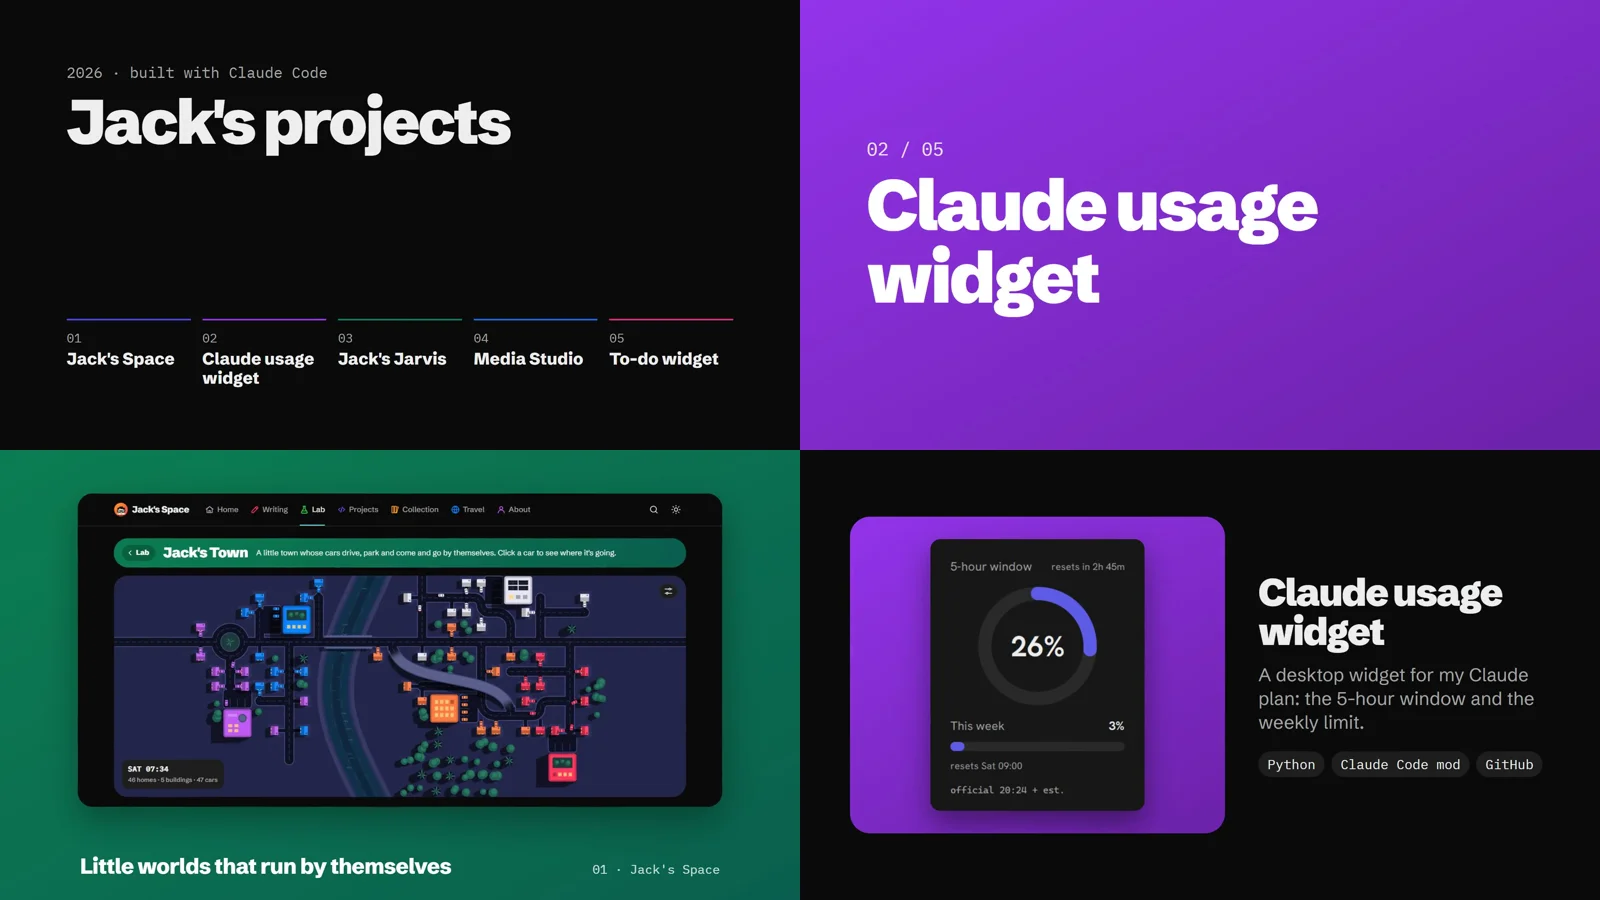
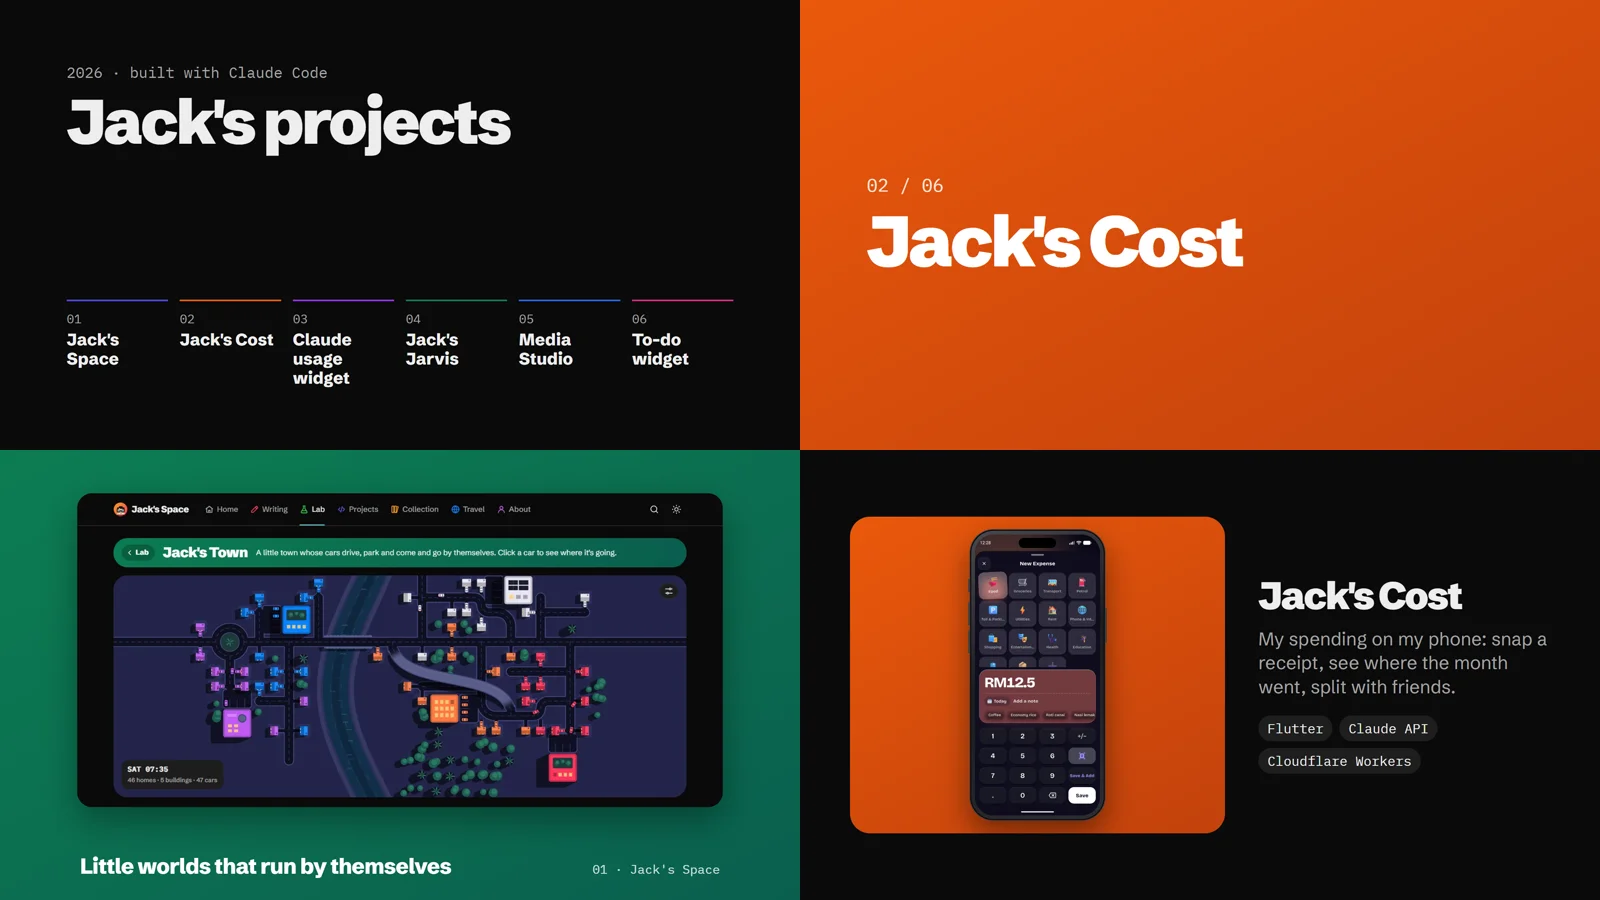
Projects - add Jack's Cost

diff --git a/src/lib/projects.ts b/src/lib/projects.ts
@@ -1,6 +1,7 @@
 // Jack's projects, one list for the Projects page and for Now (which shows a project's picture and line when an item
 // names it).
 import jacksSpace from '../assets/projects/jacks-space.webp';
+import cost from '../assets/projects/cost.webp';
 import usage from '../assets/projects/usage.webp';
 import jarvis from '../assets/projects/jarvis.webp';
 import studio from '../assets/projects/studio.webp';
@@ -13,8 +14,9 @@ const GITHUB = 'https://github.com/jacklee981229';
 // scene's first frame / 30); change both together, and generate them from the video if it changes often.
 export const PROJECTS = [
   { name: "Jack's Space", line: 'This site: writing, a Lab of tools, games and little worlds, my collections and travels.', tags: ['Astro', 'Cloudflare Workers'], kind: 'world', picture: jacksSpace, code: `${GITHUB}/jacklee981229.github.io`, wide: true, at: 2.6, tone: '--projects-top-from' },
-  { name: 'Claude usage widget', line: 'A desktop widget for my Claude plan: the 5-hour window and the weekly limit.', tags: ['Python', 'Claude Code mod'], kind: 'preview', picture: usage, code: `${GITHUB}/claude-usage-widget`, wide: true, at: 18.33, tone: '--about-top-from' },
-  { name: "Jack's Jarvis", line: 'A small, safe Windows agent: ask, it picks a tool, you see what happened.', tags: ['TypeScript', 'Voice'], kind: 'misc', picture: jarvis, at: 22.37, tone: '--lab-from' },
-  { name: 'Media Studio', line: 'Pick the keepers from a trip, give them one look, export for the site.', tags: ['Python', 'FFmpeg'], kind: 'text', picture: studio, at: 26.4, tone: '--travel-top-from' },
-  { name: 'To-do widget', line: 'My to-do list on the desktop. Claude adds to it and ticks it off.', tags: ['Python'], kind: 'effect', picture: todo, code: `${GITHUB}/todo-widget`, at: 30.43, tone: '--writing-top-from' },
+  { name: "Jack's Cost", line: 'My spending on my phone: snap a receipt, see where the month went, split with friends.', tags: ['Flutter', 'Claude API', 'Cloudflare Workers'], kind: 'image', picture: cost, code: `${GITHUB}/expenses-tracker`, wide: true, at: 18.33, tone: '--collection-top-from' },
+  { name: 'Claude usage widget', line: 'A desktop widget for my Claude plan: the 5-hour window and the weekly limit.', tags: ['Python', 'Claude Code mod'], kind: 'preview', picture: usage, code: `${GITHUB}/claude-usage-widget`, wide: true, at: 24.53, tone: '--about-top-from' },
+  { name: "Jack's Jarvis", line: 'A small, safe Windows agent: ask, it picks a tool, you see what happened.', tags: ['TypeScript', 'Voice'], kind: 'misc', picture: jarvis, at: 28.57, tone: '--lab-from' },
+  { name: 'Media Studio', line: 'Pick the keepers from a trip, give them one look, export for the site.', tags: ['Python', 'FFmpeg'], kind: 'text', picture: studio, at: 32.6, tone: '--travel-top-from' },
+  { name: 'To-do widget', line: 'My to-do list on the desktop. Claude adds to it and ticks it off.', tags: ['Python'], kind: 'effect', picture: todo, code: `${GITHUB}/todo-widget`, at: 36.63, tone: '--writing-top-from' },
 ] as const;

diff --git a/src/content/changelog.md b/src/content/changelog.md
@@ -152,3 +152,4 @@
 - 2026-11-07 fix: Kept the menu's buttons on screen in mid-size windows
 - 2026-11-10 improved: Swapped the Lab's Most Popular for my own Starred picks
 - 2026-11-11 improved: Gave the QR Code Generator a plain black-and-white look
+- 2026-11-13 new: Added Jack's Cost, my spending app, to Projects and the video
